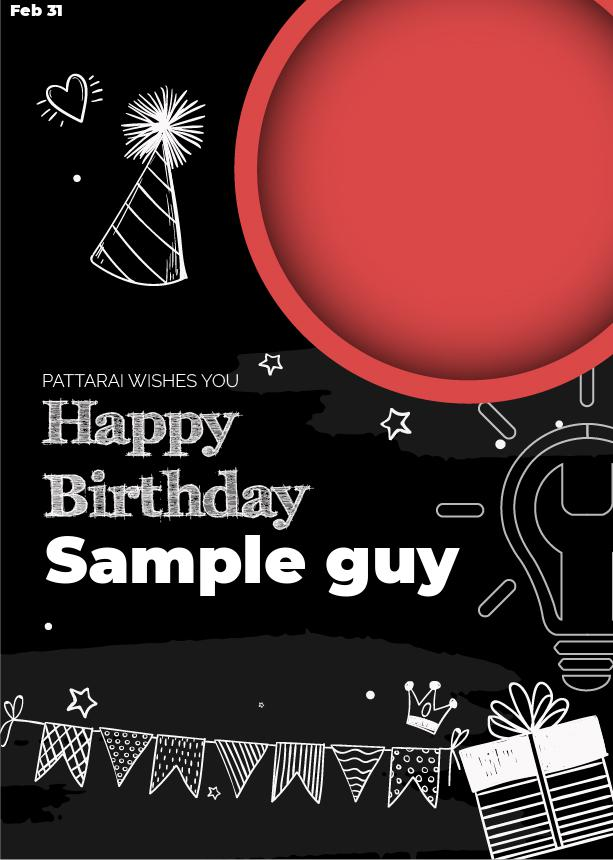
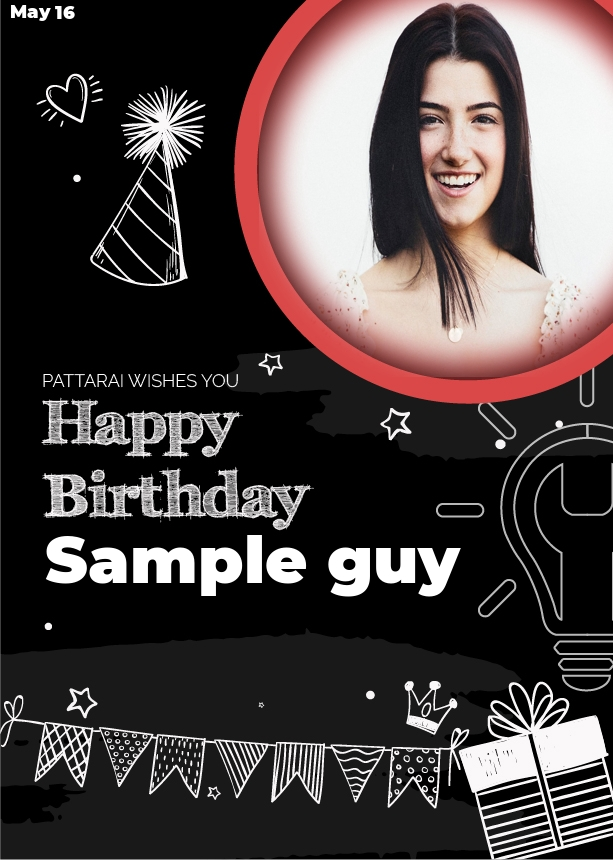
Dini -> org repo

diff --git a/main.py b/main.py
@@ -1,9 +1,52 @@
-from PIL import Image
+from PIL import Image, ImageFilter
 from PIL import ImageFont
 from PIL import ImageDraw 
+import datetime
 
-img = Image.open("birthday_template.jpg")
-draw = ImageDraw.Draw(img)
+im1 = Image.open('birthday_template.jpg')
+
+im2 = Image.open('eg.jpg')
+width  = im2.size[0]
+height = im2.size[1]
+#ar = round((width / height),2)
+#print (ar)
+if width > 600 and height > 800:
+    if width == height:
+        size = (400, 400)
+        im2 = im2.resize(size)
+
+    elif width > height:
+        left = 300
+        top = 0
+        right = width - 300
+        bottom = height
+        im2 = im2.crop((left, top, right, bottom))
+        size = (400, 400)
+        im2 = im2.resize(size)
+
+    else: 
+        left = 0
+        top = 0
+        right = width
+        bottom = width
+        im2 = im2.crop((left, top, right, bottom))
+        size = (400, 400)
+        im2 = im2.resize(size)
+
+else:
+    size = (400, 400)
+    im2 = im2.resize(size)    
+
+mask_im = Image.new("L", im2.size, 0)
+draw = ImageDraw.Draw(mask_im)
+draw.ellipse((15, 15, 396, 383), fill=255)
+
+mask_im_blur = mask_im.filter(ImageFilter.GaussianBlur(13))
+
+back_im = im1.copy()
+back_im.paste(im2, (259, -23), mask_im_blur)
+
+draw = ImageDraw.Draw(back_im)
 
 # font = ImageFont.truetype(<font-file>, <font-size>)
 font = ImageFont.truetype("Fonts/Montserrat-Black.ttf", 65)
@@ -11,8 +54,20 @@ font = ImageFont.truetype("Fonts/Montserrat-Black.ttf", 65)
 draw.text((45,520),"Sample guy",(255,255,255),font=font)
 
 # font = ImageFont.truetype(<font-file>, <font-size>)
-font = ImageFont.truetype("Fonts/Montserrat-Black.ttf", 16)
-# draw.text((x, y),"Sample Text",(r,g,b))
-draw.text((10, 0),"Feb 31",(255,255,255),font=font)
+font = ImageFont.truetype("Fonts/Montserrat-Black.ttf", 18)
 
-img.save('sample-out.jpg')
+x = datetime.datetime.now()
+#Month name, short version
+month = x.strftime("%b")
+day = x.strftime("%d")
+
+# draw.text((x, y),"Sample Text",(r,g,b))
+draw.text((10, 0),month,(255,255,255),font=font)
+draw.text((55, 1),day,(255,255,255),font=font)
+
+back_im.save('sample-out.jpg', quality=100)
+
+
+
+
+
